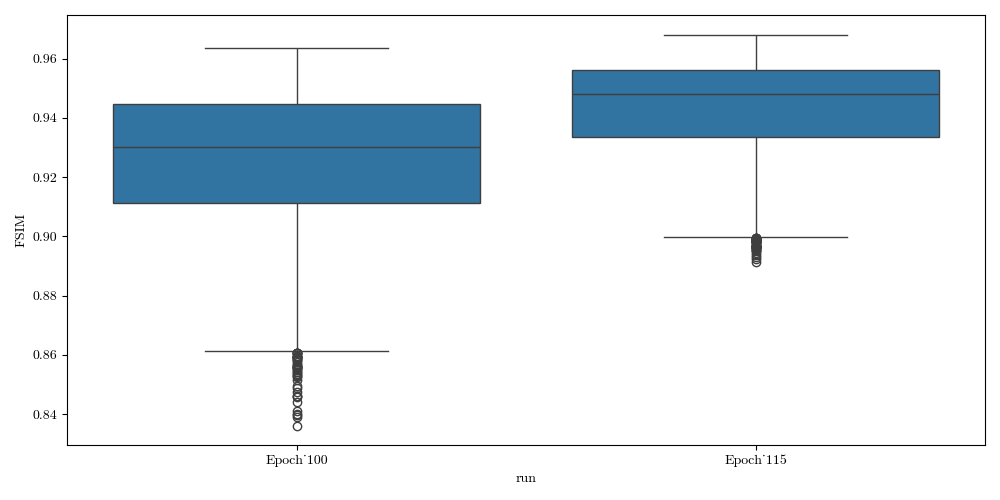
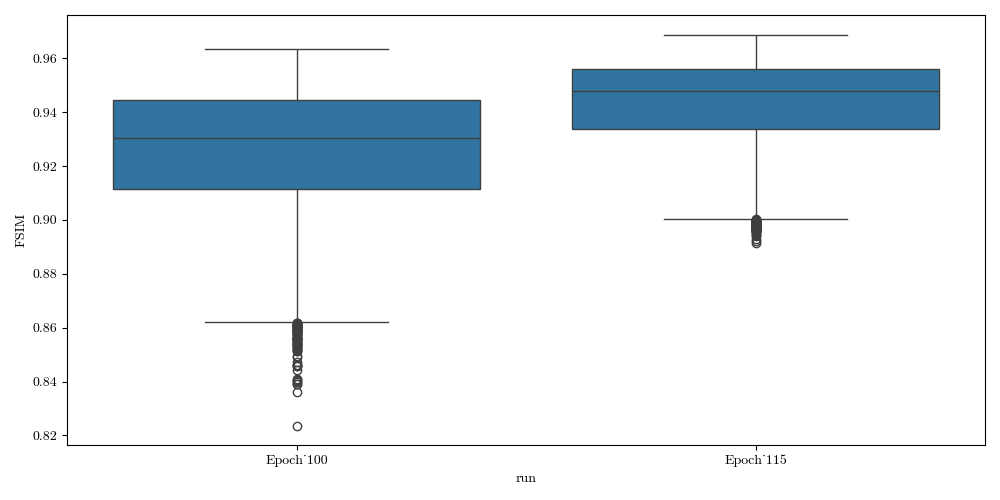
Fixed number of images in the test set and now created one overview figure for each b-value.

diff --git a/overview_results_before+after_fine-tuning.py b/overview_results_before+after_fine-tuning.py
@@ -17,7 +17,7 @@ parser = argparse.ArgumentParser(description="Create boxplots, LaTeX tables, and
 parser.add_argument("--base_dir",   type=str,  default="./results",                              help="Base directory containing the run subdirectories.")
 parser.add_argument("--csv_name",   type=str,  default="metrics.csv",                            help="Name of the CSV file containing metrics in each run's test_latest directory.")
 parser.add_argument("--metrics",    nargs="+", default=["MSE", "SSIM", "DISTS", "FSIM", "GMSD"], help="List of metrics to process.")
-parser.add_argument("--num_images", type=int,  default=4440,                                     help="Number of images (rows) in the CSV file before the summary statistics start.")
+parser.add_argument("--num_images", type=int,  default=6660,                                     help="Number of images (rows) in the CSV file before the summary statistics start.")
 args = parser.parse_args()
 
 num_images = args.num_images
@@ -71,5 +71,8 @@ for metric in args.metrics:
 # create LaTeX tables for summary statistics
 create_latex_table_overview(pd.DataFrame(summary_rows_BtoA), args.metrics, f"{save_path}/pre-train_fine-tune_table.tex")
 
-# create a new overview figure
-create_overview_diff_figure([name for name in run_names], os.path.join(args.base_dir, 'DWI_pix2pix_grad_resnet9_BtoA'), 6, 6, f"{save_path}/overview_BtoA")
+# create a new overview figure (one per b-value)
+create_overview_diff_figure([name for name in run_names], os.path.join(args.base_dir, 'DWI_pix2pix_grad_resnet9_BtoA'), 0, 12, f"{save_path}/b0")    # b=0
+create_overview_diff_figure([name for name in run_names], os.path.join(args.base_dir, 'DWI_pix2pix_grad_resnet9_BtoA'), 8, 12, f"{save_path}/b500")  # b=500
+create_overview_diff_figure([name for name in run_names], os.path.join(args.base_dir, 'DWI_pix2pix_grad_resnet9_BtoA'), 2, 12, f"{save_path}/b1000") # b=1000
+create_overview_diff_figure([name for name in run_names], os.path.join(args.base_dir, 'DWI_pix2pix_grad_resnet9_BtoA'), 1, 12, f"{save_path}/b2000") # b=1000

diff --git a/evaluation/before+after_fine-tuning/pre-train_fine-tune_table.tex b/evaluation/before+after_fine-tuning/pre-train_fine-tune_table.tex
@@ -1,7 +1,7 @@
 \resizebox{\textwidth}{!}{\begin{tabular}{l l ccccc}
 \hline
 Epoch & MSE $[10^{-3}] \downarrow$ & SSIM $[\%] \uparrow$ & DISTS $[10^{-3}] \downarrow$ & FSIM $[\%] \uparrow$ & GMSD $[10^{-3}] \downarrow$ \\ \hline
-Pre-Training & 29.45 $\pm$ 27.11 & 82.00 $\pm$ 83.69 & 132.99 $\pm$ 123.61 & 89.43 $\pm$ 91.45 & 133.23 $\pm$ 132.85 \\
-Fine-Tuning & \textbf{21.44 $\pm$ 19.89} & \textbf{86.09 $\pm$ 86.49} & \textbf{123.13 $\pm$ 129.05} & \textbf{92.77 $\pm$ 93.13} & \textbf{120.11 $\pm$ 112.86} \\
+Pre-Training & 17.54 $\pm$ 7.08 & 87.85 $\pm$ 3.90 & \textbf{101.03 $\pm$ 22.06} & 92.63 $\pm$ 2.32 & 107.86 $\pm$ 20.30 \\
+Fine-Tuning & \textbf{11.07 $\pm$ 6.44} & \textbf{91.38 $\pm$ 3.17} & 106.42 $\pm$ 18.91 & \textbf{94.40 $\pm$ 1.50} & \textbf{83.28 $\pm$ 19.80} \\
 \hline
 \end{tabular}}
